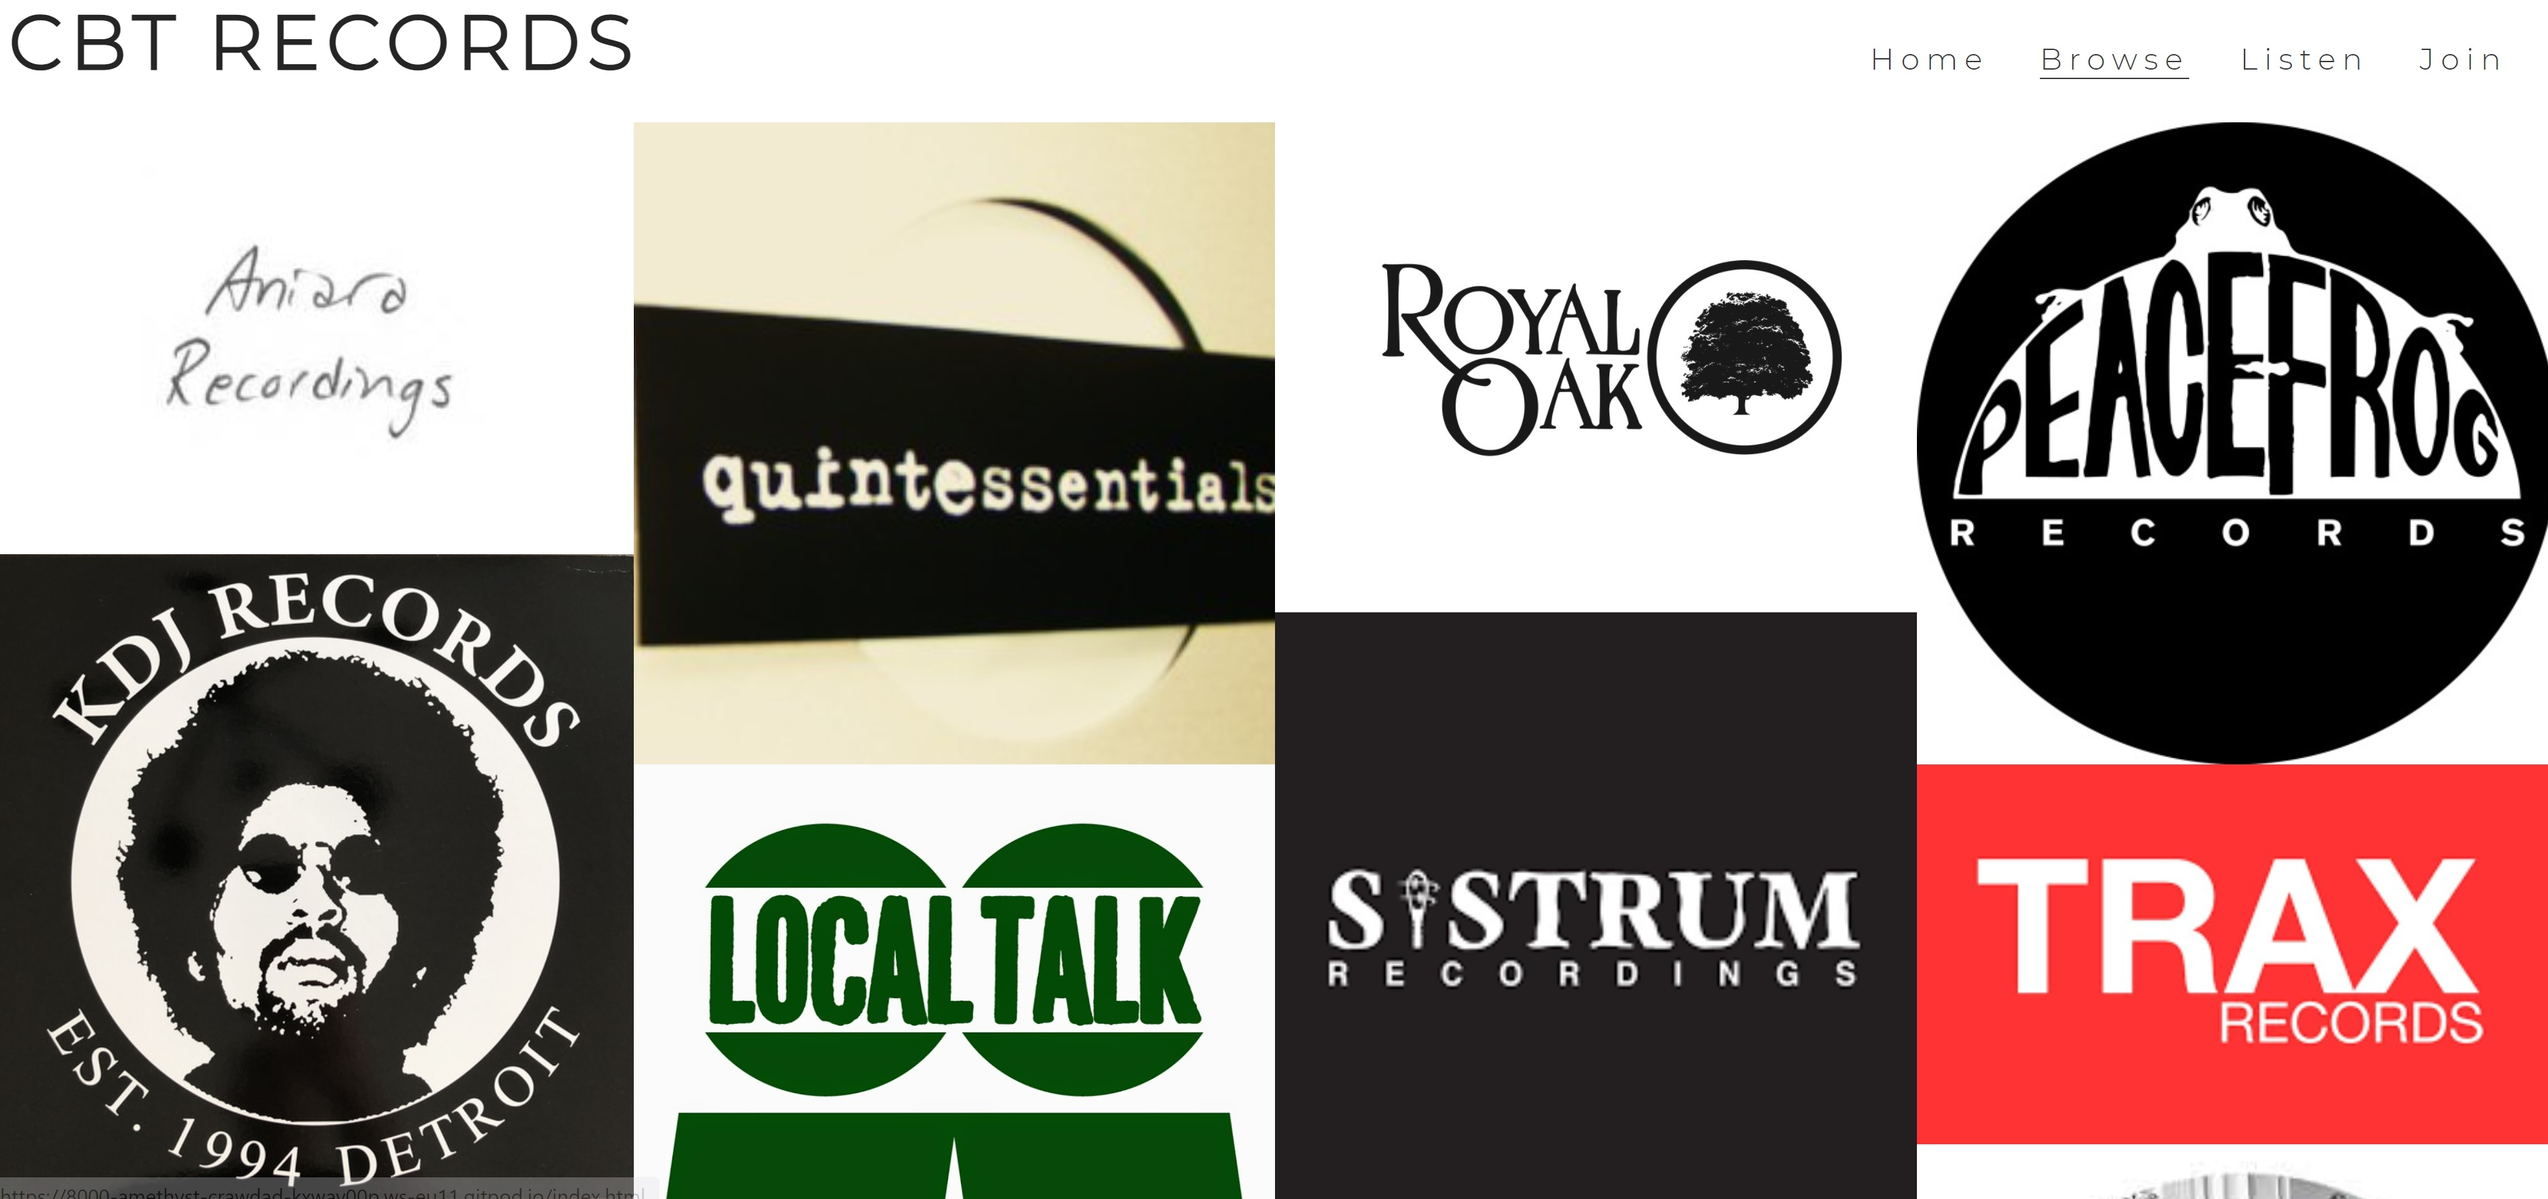
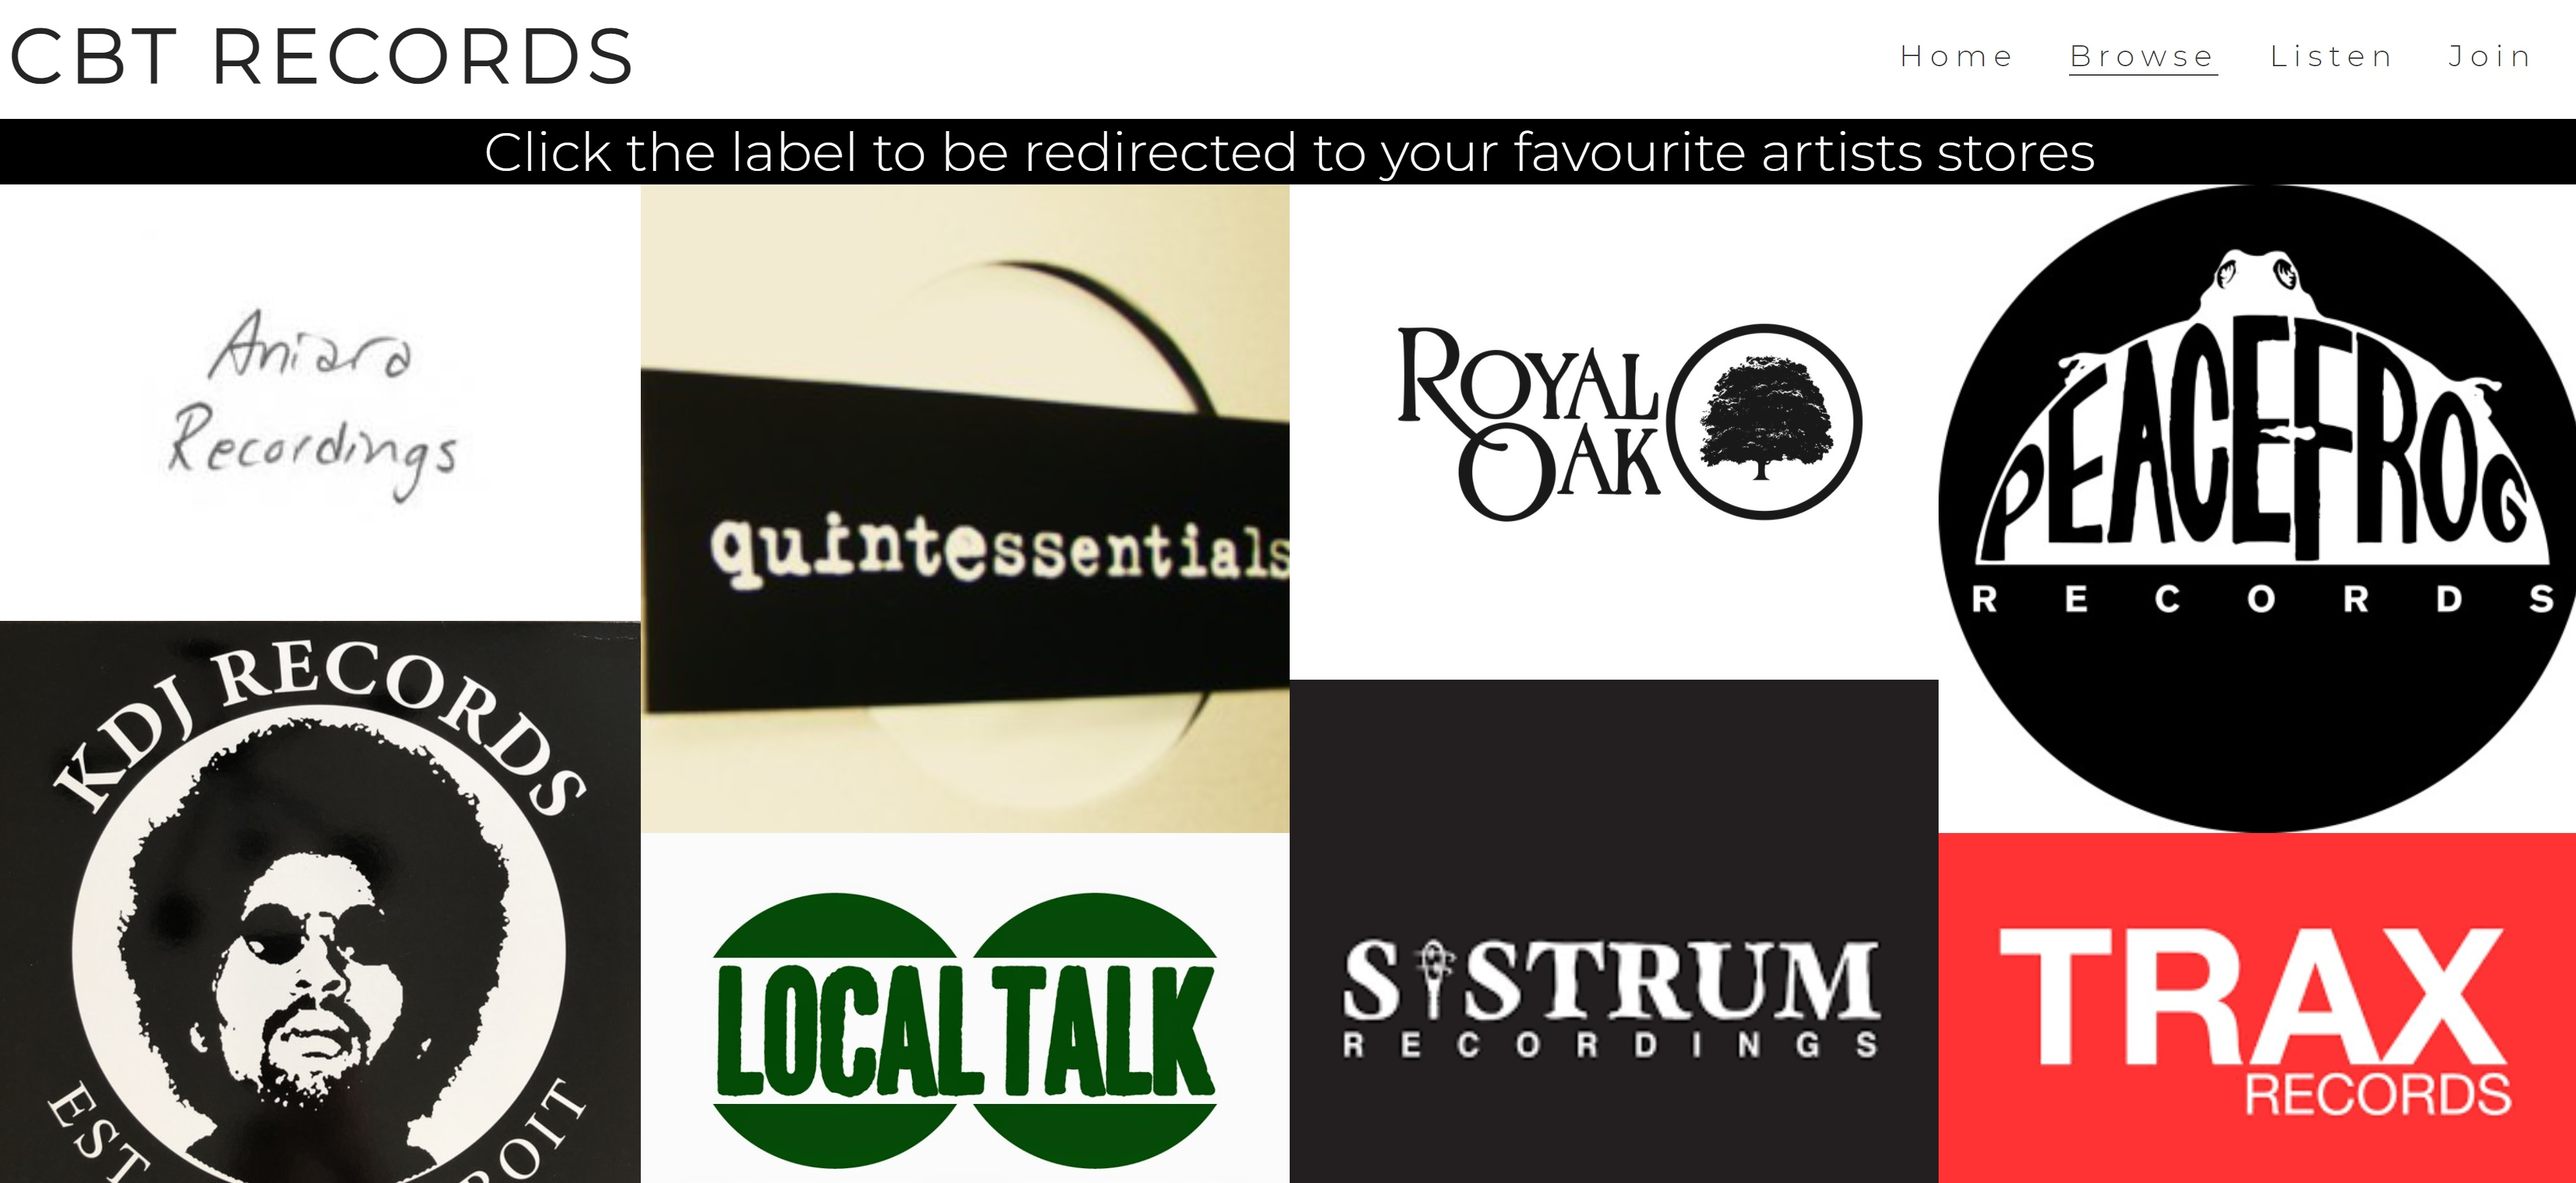
Add header to browse page and style

diff --git a/assets/css/style.css b/assets/css/style.css
@@ -246,6 +246,31 @@ footer {
     width: 100%;
 }
 
+#browse-about {
+    text-align: center;
+    font-size: 200%;
+    font-weight: lighter;
+    width: 100%;
+    overflow: hidden;
+    color:#fafafa;
+    background-color: black;
+    border-bottom: chartreuse;
+    
+    position:relative;
+    height: 300%;
+    float: left;
+    
+}
+
+#listen-about {
+        background: url(../images/club-space.jpg);
+        background-repeat: no-repeat;
+        background-size: cover;
+        background-position: center;
+        width: 100%;
+        overflow: hidden;
+    }
+
 /* media queries */
 
 @media screen and (max-width: 1200px) {

diff --git a/browse.html b/browse.html
@@ -33,6 +33,9 @@
             </ul>
         </nav>
     </header>
+    <section>
+        <h3 id="browse-about">Click the label to be redirected to your favourite artists stores</h3>
+    </section>
         <section id="photos">
         <a href="https://aniararecordings.bandcamp.com/" target="_blank"><img src="assets/images/aniararecordings.jpg" alt="Aniara recordings"></a>
         <a href="https://bandcamp.com/tag/kdj-records" target="_blank"><img src="assets/images/kdj.jpg" alt="KDJ records"></a>

diff --git a/README.md b/README.md
@@ -2,56 +2,56 @@
 
 ## CBT Records
 
-### CBT Records is an online vinyl record store and electronic music label that hopes to create a direct connection between collectors and artists in the electronic music scene worldwide. It's aim is to market new music, events, merchandise and records sales, both online and in mockup physical stores. It's revenue would be generated via traffic to the artists direct sites.
+#### CBT Records is an online vinyl record store and electronic music label that hopes to create a direct connection between collectors and artists in the electronic music scene worldwide. It's aim is to market new music, events, merchandise and records sales, both online and in mockup physical stores. It's revenue would be generated via traffic to the artists direct sites.
 
-### The site will be targeted towards artists, labels, djs & collectors, who are looking for one single place to discover, purchase, sell and promote music from. The site will also be a platform for creatives to share ideas, mixes, resources, events, tips, reviews and more. 
+#### The site will be targeted towards artists, labels, djs & collectors, who are looking for one single place to discover, purchase, sell and promote music from. The site will also be a platform for creatives to share ideas, mixes, resources, events, tips, reviews and more. 
 
 ## Existing Features
-### Navigation Bar
+#### Navigation Bar
 
-### Featured on all four pages, the fully responsive navigation bar includes links to the logo, home, browse, listen and join pages and is identical in each page to allow for easy navigation. This section will allow the user to easily navigate from page to page across all devices without having to revert back to the previous page via the ‘back’ button.
+#### Featured on all four pages, the fully responsive navigation bar includes links to the logo, home, browse, listen and join pages and is identical in each page to allow for easy navigation. This section will allow the user to easily navigate from page to page across all devices without having to revert back to the previous page via the ‘back’ button.
 
 ![Nav Bar image](assets/images/nav-bar.jpg)
 
 ## The landing page image
 
-### The landing includes a photograph of a collector browsing though a record collection with text overlay to allow the user to see exactly what the site would be applicable to. This section introduces the user to CBT Records with an eye catching animation to grab their attention. Audio plays on launch to give an insight into the type of music the site is geared towards.
+#### The landing includes a photograph of a collector browsing though a record collection with text overlay to allow the user to see exactly what the site would be applicable to. This section introduces the user to CBT Records with an eye catching animation to grab their attention. Audio plays on launch to give an insight into the type of music the site is geared towards.
 
 ![Landing Page image](assets/images/landing-page.jpg)
 
 ## Shop Ethos Section
 
-### The shop ethos section will allow the user to see the benefits of joining the CBT records online community. This user will see the value of signing up for the CBT records. This should encourage the user to consider CBT as their sole source for discovering new music and events.
+#### The shop ethos section will allow the user to see the benefits of joining the CBT records online community. This user will see the value of signing up for the CBT records. This should encourage the user to consider CBT as their sole source for discovering new music and events.
 
 ![Shop Ethos image](assets/images/shop-ethos.jpg)
 
 ## Physical locations section
 
-### This section will allow the user to see where the mockup physical stores are located, with related city icons, addresses and opening hours in each column. Each section will be anchored to launch Google Maps in a new tab when clicked. This section will be updated as these times change to keep the user up to date.
+#### This section will allow the user to see where the mockup physical stores are located, with related city icons, addresses and opening hours in each column. Each section will be anchored to launch Google Maps in a new tab when clicked. This section will be updated as these times change to keep the user up to date.
 
 ![Physical locations image](assets/images/physical-locations.jpg)
 
 ## The Footer
 
-### The footer section includes links to the relevant social media sites for CBT records. The links will open to a new tab to allow easy navigation for the user. The footer is valuable to the user as it encourages them to keep connected via social media.
+#### The footer section includes links to the relevant social media sites for CBT records. The links will open to a new tab to allow easy navigation for the user. The footer is valuable to the user as it encourages them to keep connected via social media.
 
 ![Footer image](assets/images/footer.jpg)
 
 ## Browse page
 
-### The Browse page will provide the user with supporting images to the record labels available to choose from. This section is valuable to the user as they will be able to easily identify the label they want to browse music from, via distiguishable logos nested within a clickable link that will launch the artists local site in a new tab.
+#### The Browse page will provide the user with supporting images to the record labels available to choose from. This section is valuable to the user as they will be able to easily identify the label they want to browse music from, via distiguishable logos nested within a clickable link that will launch the artists local site in a new tab.
 
 ![Browse image](assets/images/browse.jpg)
 
 ## The Listen Page
 
-### This page will provide users with embedded Soundcloud links to artists live sets and new releases weekly. The user will be able to listen to and discover music directly from the site.
+#### This page will provide users with embedded Soundcloud links to artists live sets and new releases weekly. The user will be able to listen to and discover music directly from the site.
 
 ![Listen image](assets/images/listen.jpg)
 
 ## The Join Page
 
-### This page will allow the user to get signed up to CBT Records to start their collecting journey within the community. The user will be able specify if they are shopping as a DJ or collector. The user will be asked to submit their full name and email address.
+#### This page will allow the user to get signed up to CBT Records to start their collecting journey within the community. The user will be able specify if they are shopping as a DJ or collector. The user will be asked to submit their full name and email address.
 
 ![Join image](assets/images/join-image.jpg)
 
